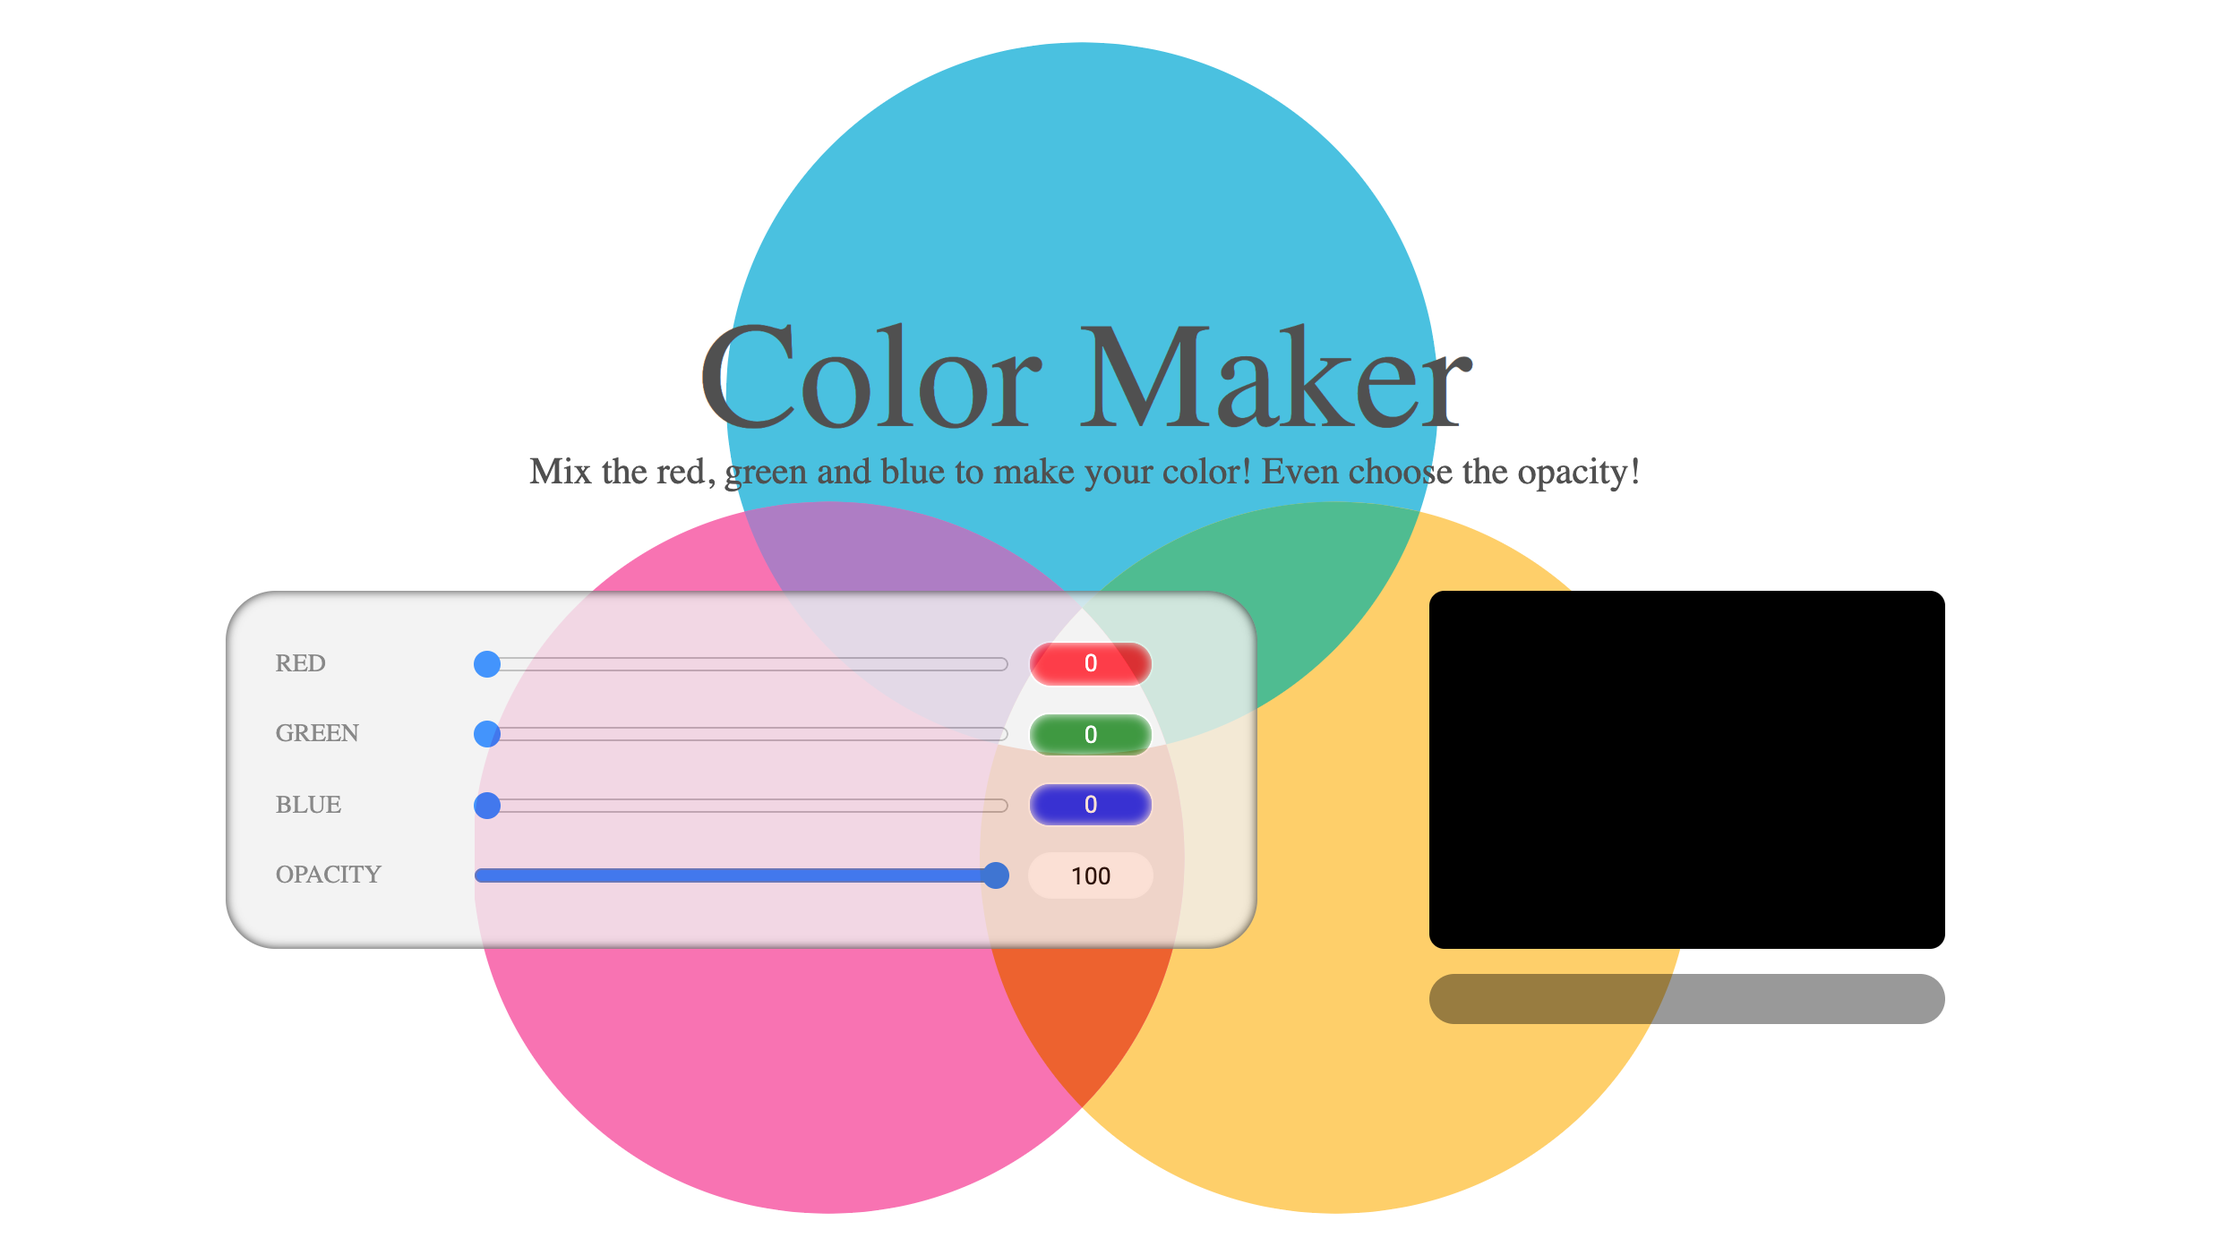
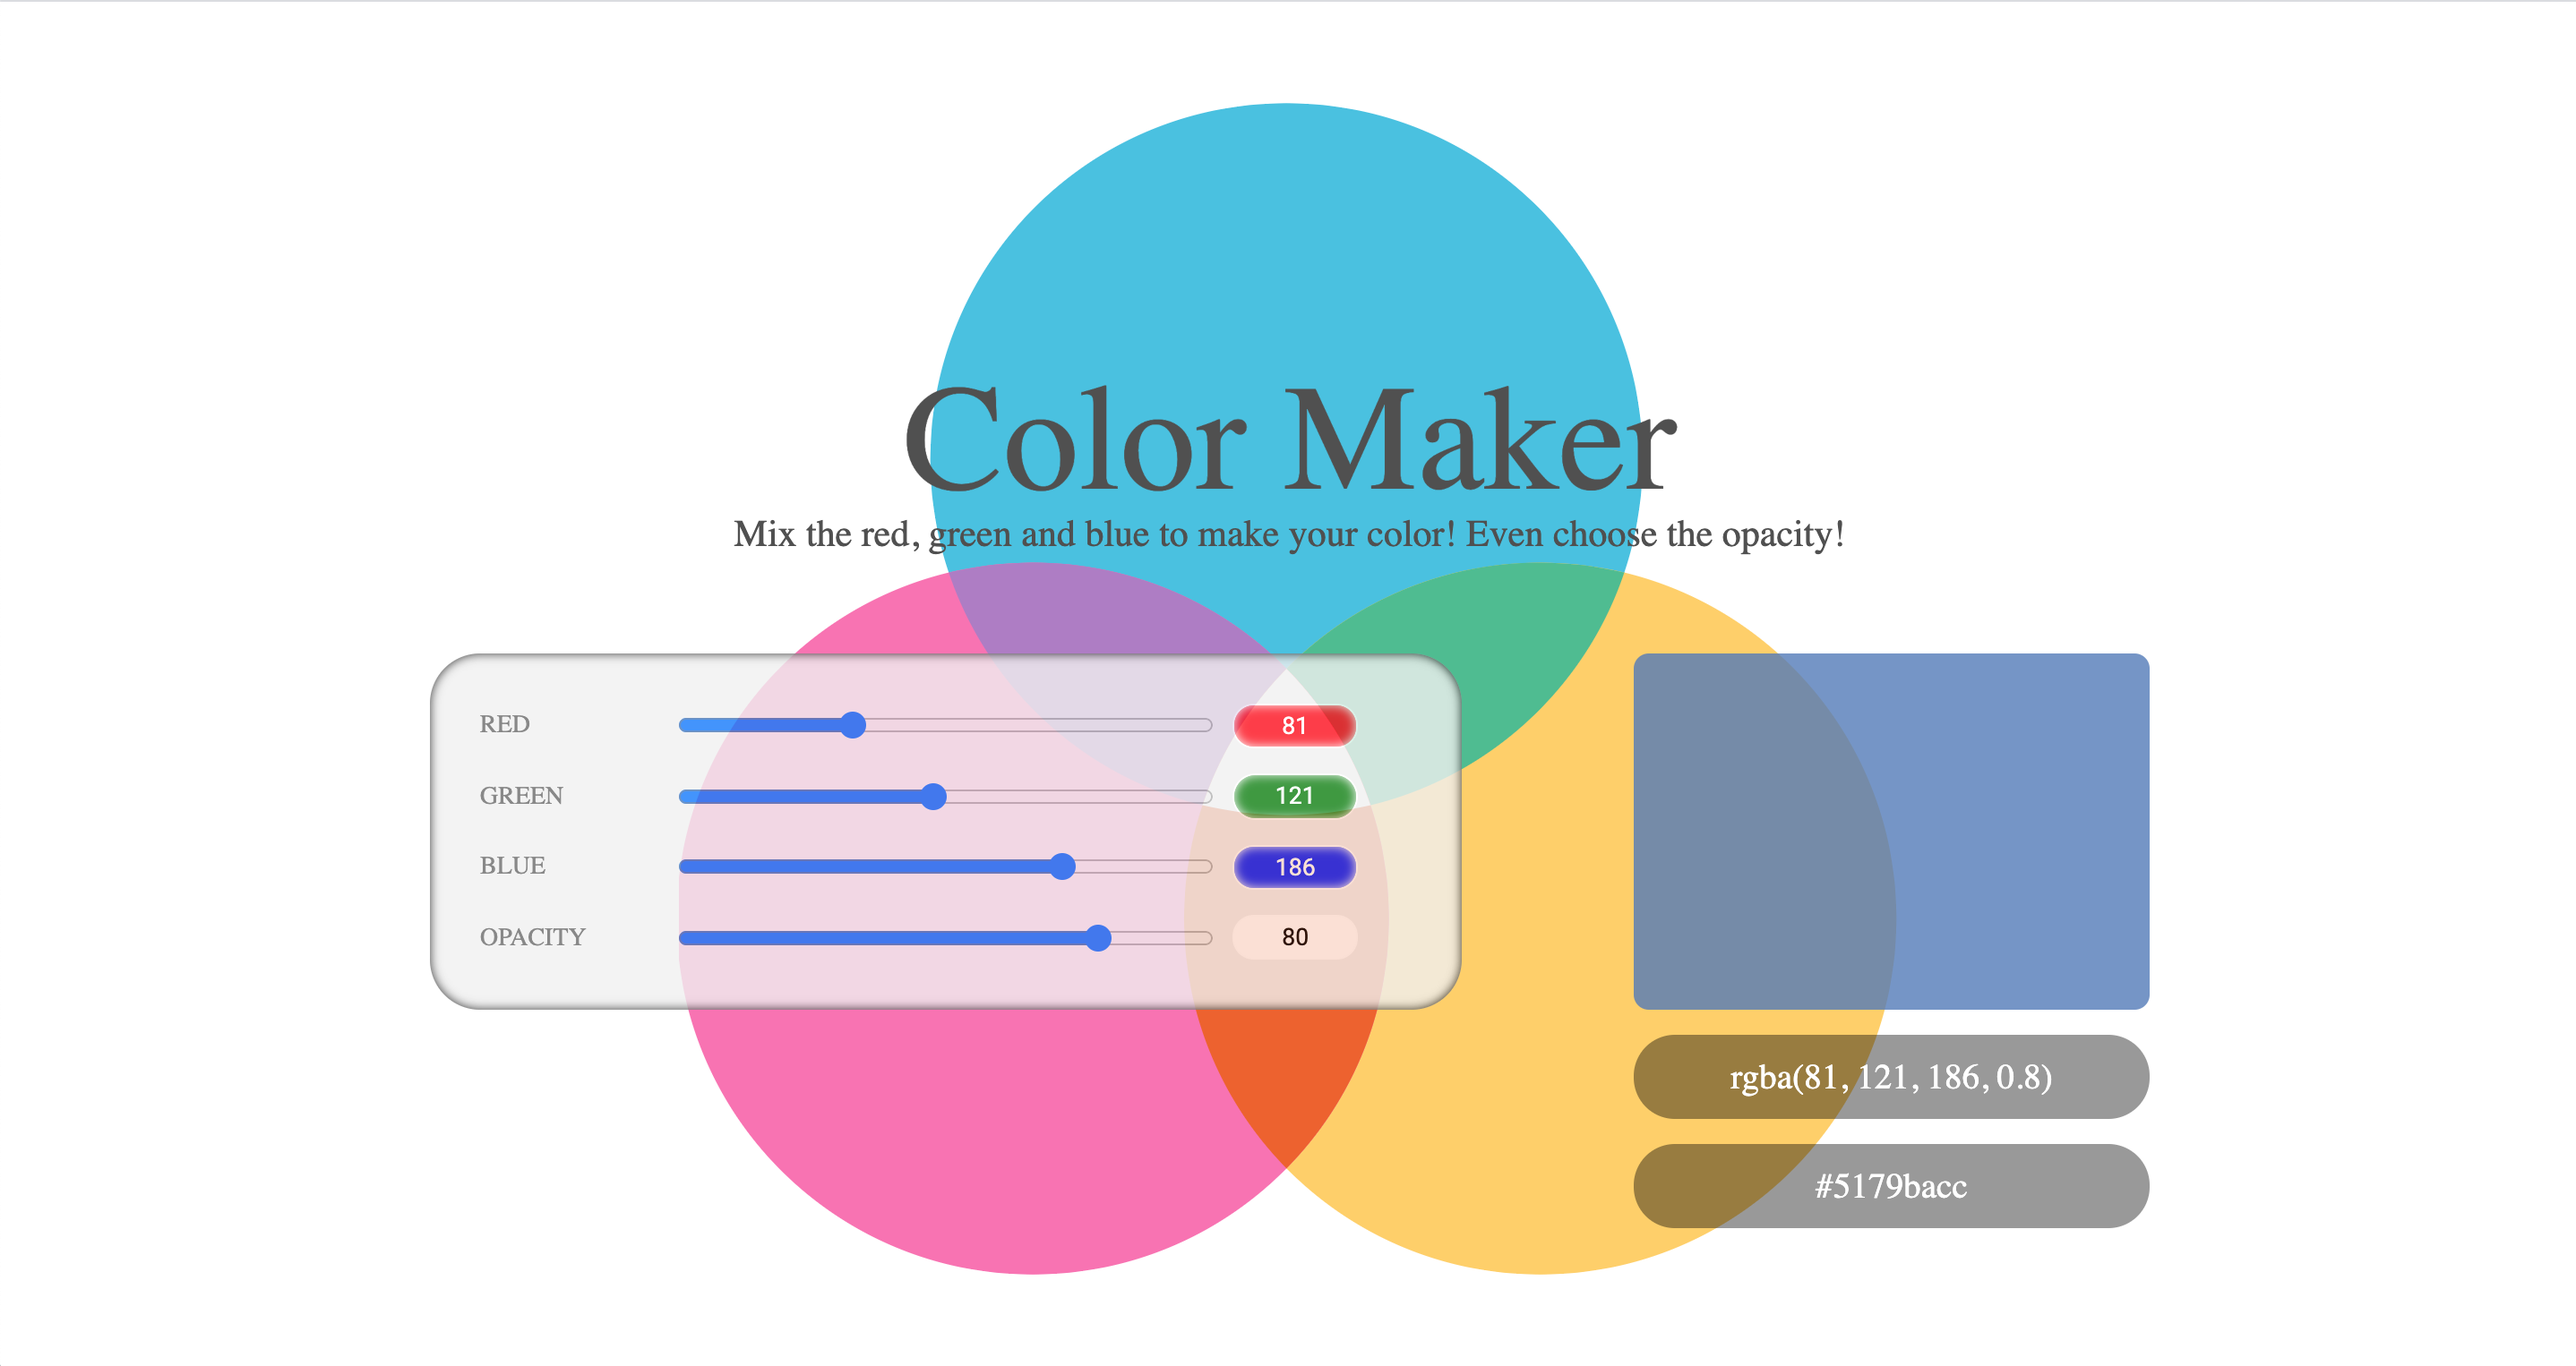
FEATURE: Added the HEX type for the color generate

Changed region(s): [[0.0931, 0.0307, 0.9004, 0.9815], [0.5589, 0.5214, 0.5899, 0.7361]]

diff --git a/scripts/script.js b/scripts/script.js
@@ -9,14 +9,17 @@ var blueColor = document.querySelector("#color-blue")
 var opacity = document.querySelector("#opacity")
 
 // Text for colors
+
 var redText = document.querySelector(".text-color-red")
 var greenText = document.querySelector(".text-color-green")
 var blueText = document.querySelector(".text-color-blue")
 var opacityText = document.querySelector(".text-opacity")
 
 // Background color
+
 var colorBackground = document.querySelector(".card-background-color")
 var textBackground = document.querySelector(".card-background-text")
+var textBackgroundHex = document.querySelector("#hex")
 
 redColor.addEventListener("change", eventColorChange);
 greenColor.addEventListener("change", eventColorChange);
@@ -29,12 +32,39 @@ function eventColorChange(){
     greenText.value = greenColor.value
     blueText.value = blueColor.value
     opacityText.value = opacity.value;
+
+    // Var RGBA in a variable
+    var rgba = `rgba(${redColor.value}, ${greenColor.value}, ${blueColor.value}, ${opacity.value/100})`;
     
     // Changing the background using template literals
-    colorBackground.style.backgroundColor = `rgba(${redColor.value}, ${greenColor.value}, ${blueColor.value}, ${opacity.value/100})`;
+    colorBackground.style.backgroundColor = rgba;
 
     // Changing the text background using template literals
-    textBackground.textContent = `rgba  (${redColor.value}, ${greenColor.value}, ${blueColor.value}, ${opacity.value/100})`
+    textBackground.textContent = rgba
+
+    // Changing the text background using template literals
+    textBackgroundHex.textContent = rgba2hex(rgba)
 
 }
 })
+
+function rgba2hex(orig) {
+  var a, isPercent,
+    rgb = orig.replace(/\s/g, '').match(/^rgba?\((\d+),(\d+),(\d+),?([^,\s)]+)?/i),
+    alpha = (rgb && rgb[4] || "").trim(),
+    hex = rgb ?
+    (rgb[1] | 1 << 8).toString(16).slice(1) +
+    (rgb[2] | 1 << 8).toString(16).slice(1) +
+    (rgb[3] | 1 << 8).toString(16).slice(1) : orig;
+
+  if (alpha !== "") {
+    a = alpha;
+  } else {
+    a = 01;
+  }
+  // multiply before convert to HEX
+  a = ((a * 255) | 1 << 8).toString(16).slice(1)
+  hex = `#${hex}${a}`;
+
+  return hex;
+}

diff --git a/index.html b/index.html
@@ -38,6 +38,7 @@
       <div class="card-background">
         <div class="card-background-color"></div>
         <h2 class="card-background-text"></h2>
+        <h2 class="card-background-text" id="hex"></h2>
       </div>
     </div>
     <script src="scripts/script.js"></script>
